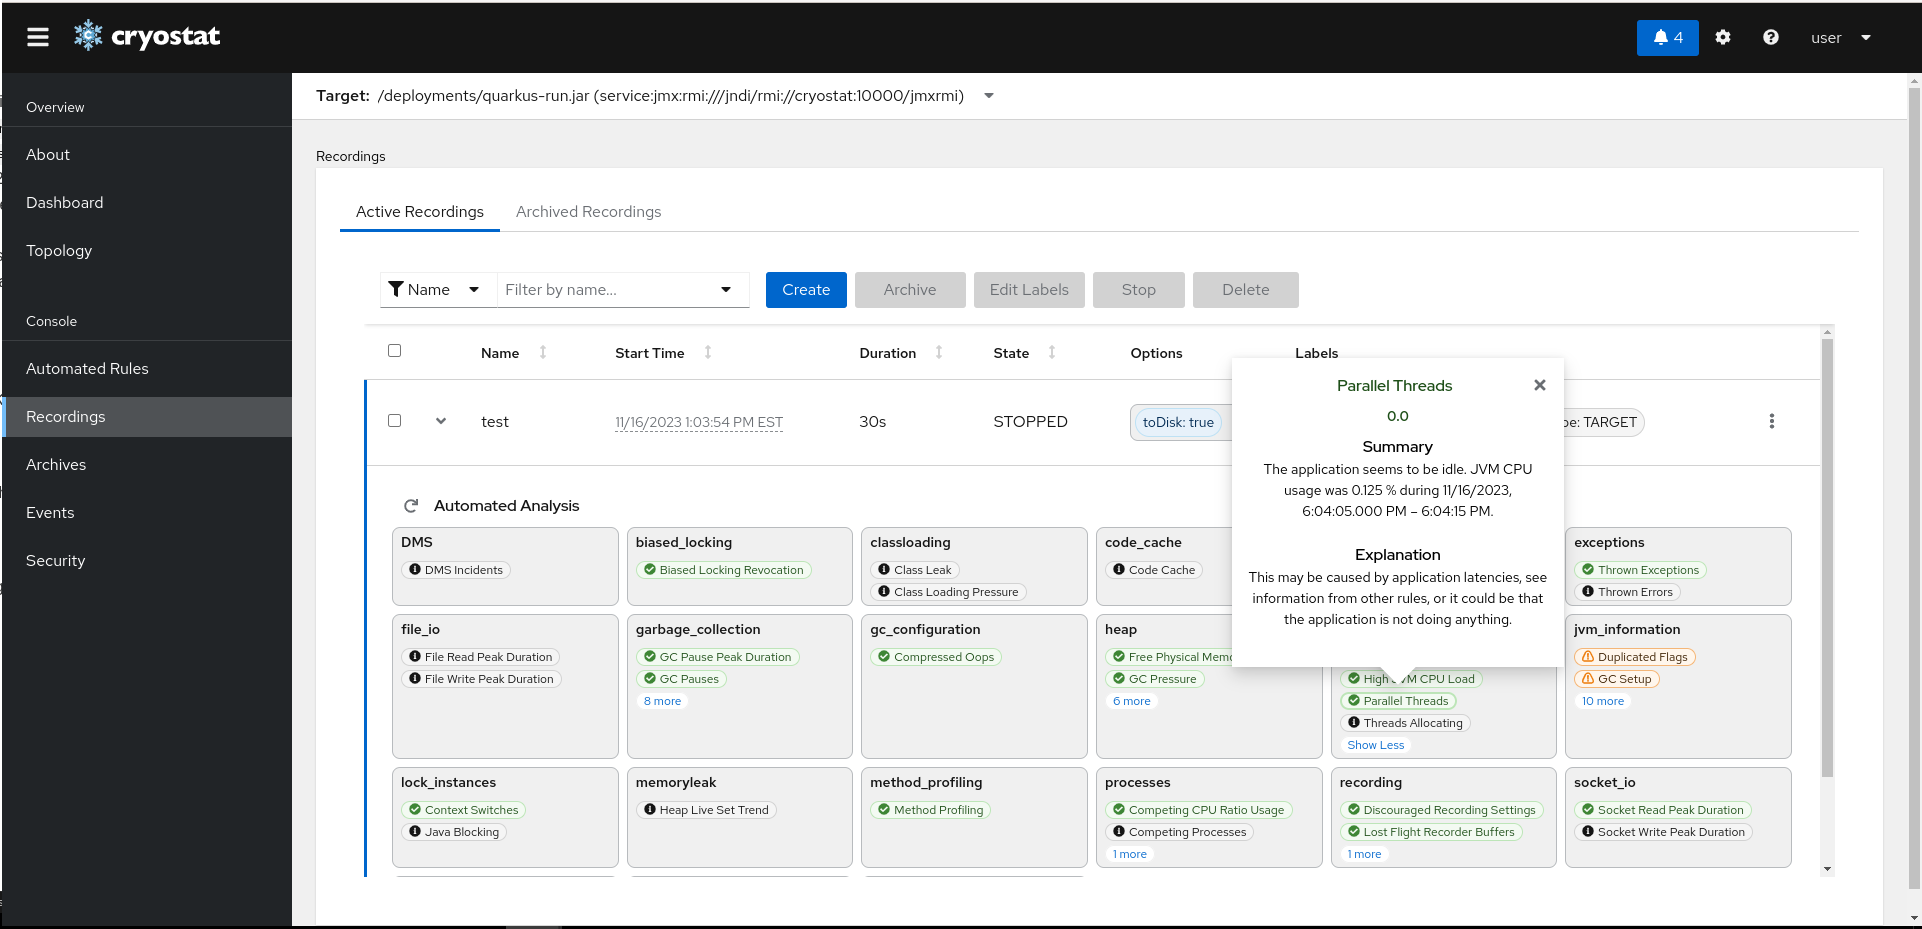
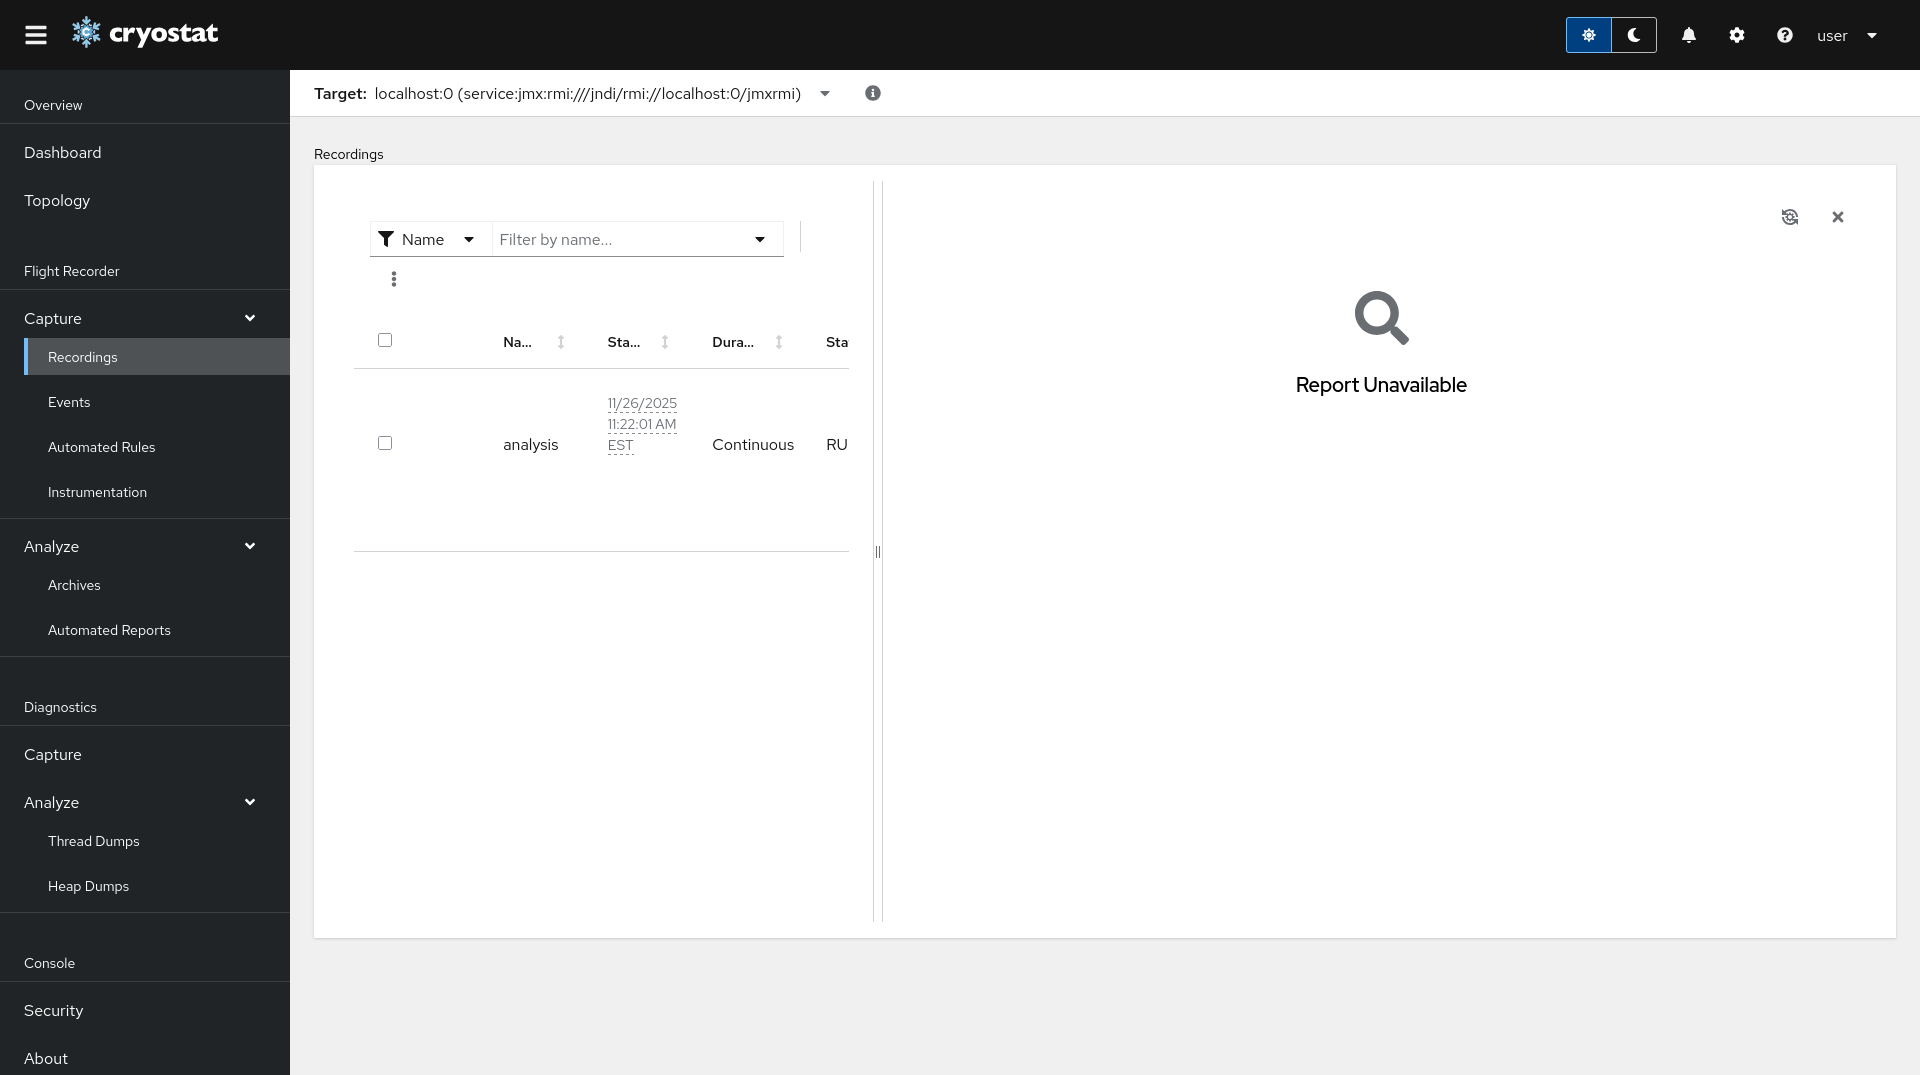
automated analysis

diff --git a/guides/_subsections/automated-analysis.md b/guides/_subsections/automated-analysis.md
@@ -1,4 +1,4 @@
-## [View Automated Analysis for a Recording](#view-automated-analysis-for-a-recording)
+## [View Automated Analysis for a Target](#view-automated-analysis-for-a-target)
 **Cryostat** integrates the same `Automated Analysis` reports that you would
 find in [JDK Mission Control ("JMC")](https://github.com/openjdk/jmc). The
 **JMC** rules engine analyzes your `Recording` and looks for common problems,
@@ -6,10 +6,8 @@ assigning a severity score from 0 (no problem) to 100 (potentially
 severe problem) to each potential problem type.
 
 **Cryostat** also provides an `Automated Analysis Card` that is able to display
-the same information in a more flexible format, with more tools and control
-over the data you see and the ability to resize the view. The `Card` is available
-for use in the *Dashboard*. Read the section on the
-[`Automated Analysis Card`](#automated-analysis-card) for more information.
+the same information. The `Card` is available for use in the *Dashboard*.
+Read the section on the [`Automated Analysis Card`](#automated-analysis-card) for more information.
 
 <ol>
   <li>
@@ -19,35 +17,50 @@ for use in the *Dashboard*. Read the section on the
     {% include_relative _subsections/common/navigate-to-recordings.md %}
   </li>
   <li>
-    {% include_relative _subsections/common/select-a-recording.md
-      select-a-recording-caption="
-        If you do not have any <code>Recordings</code> present in the <i>Active Recordings</i>
-        view, follow
-        <a href='#startstop-a-recording'>Start/Stop a Recording</a>
-        to create one, or select a different <code>target</code> application.
-        You may also select an <code>Archived Recording</code> for <code>Automated Analysis</code>.
+    {% include howto_step.html
+      summary="Click the <code>Analyze</code> toolbar button"
+      image-name="4.1.0/automated-analysis-1.png"
+      caption="
+        The analysis drawer will appear from the side. If Cryostat has already analyzed recording data from
+        this target recently then content will appear in the drawer. If there are no <code>Active Recordings</code>
+        to source data from, click the <code>Create a Recording</code> call to action to be guided through
+        <code>Recording</code> creation, then return back to this view.
       "
     %}
   </li>
   <li>
     {% include howto_step.html
-      summary="Expand the <code>Recording</code>"
-      image-name="4.1.0/automated-analysis-1.png"
+      summary="Request analysis"
+      image-name="4.1.0/automated-analysis-2.png"
       caption="
-        Expand the <code>Recording</code> with the <i>Chevron</i> to the left of the <code>Recording</code>
-        name. The <code>Automated Analysis</code> report will appear below the <code>Recording</code>.
+        Click the analysis process button in the corner of the drawer panel.
       "
     %}
   </li>
   <li>
     {% include howto_step.html
       summary="View Details and Suggestions for Results"
-      image-name="4.1.0/automated-analysis-2.png"
+      image-name="4.1.0/automated-analysis-3.png"
       caption="
-        Click on each result to view
-        specifics on what the result means and possible suggestions to fix
+        Click on each result to view specifics on what the result means and possible suggestions to fix
         the potential problem.
       "
     %}
+  </li>
+  <li>
+    <p>
+    {% include howto_step.html
+      summary="View analysis of an archived recording"
+      image-name="4.1.0/automated-analysis-4.png"
+      caption="
+        Automated analysis results for individual <code>Archived Recordings</code> are also available.
+      "
+      text="
+        Follow <a href='#viewing-archived-recordings'>the <code>Archived Recordings</code></a>
+        guide to find an <code>Archived Recording</code> you are interested in. Click the chevron icon
+        beside a <code>recording</code> item to expand the row and view analysis results.
+      "
+    %}
+    </p>
   </li>
 </ol>
